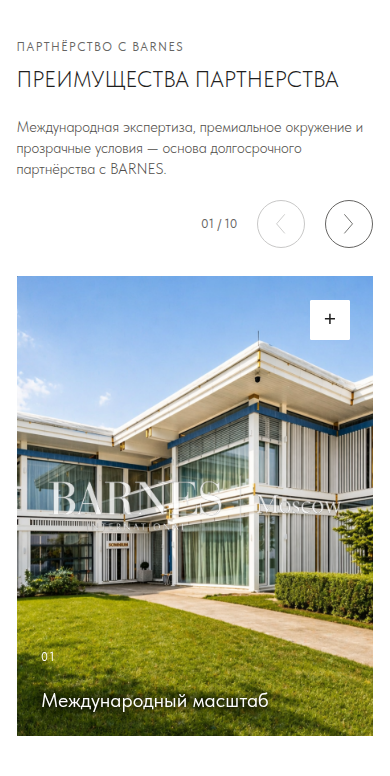
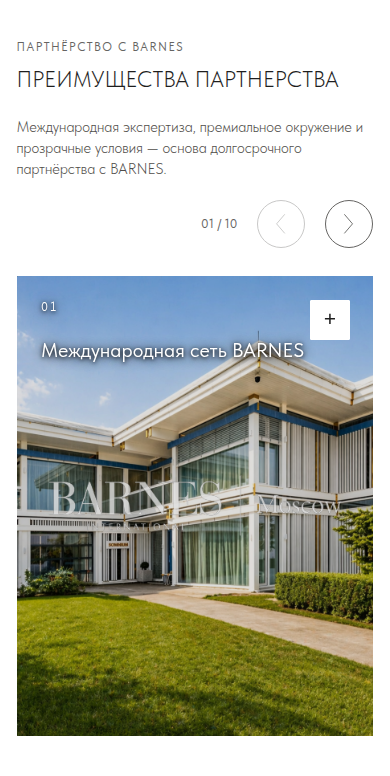
feat: refine partnership advantages titles imagery and alignment

Changed region(s): [[0.0308, 0.3402, 0.9538, 0.866], [0.0923, 0.8969, 0.7077, 0.9278], [0.0923, 0.8351, 0.1231, 0.866]]

diff --git a/for-partners/index.html b/for-partners/index.html
@@ -30,16 +30,16 @@
 </span></button><button type="button" class="ambassadors-advantages__nav-btn" disabled aria-label="Следующее преимущество" data-v-5398f0fc><span class="ui-icon ui-icon-current ambassadors-advantages__nav-icon" data-v-5398f0fc data-v-8bd2f545><svg width="11" height="22" viewBox="0 0 11 22" fill="none" xmlns="http://www.w3.org/2000/svg">
 <path d="M0.379883 21.3262L9.37988 10.8262L0.379884 0.326171" stroke="#656462"/>
 </svg>
-</span></button></div></div><div data-v-5398f0fc class="splide ambassadors-advantages__slider splide--slide splide--ltr splide--draggable is-active is-overflow is-initialized" aria-label="Преимущества партнёрства" id="splide01" role="region" aria-roledescription="carousel"><div data-v-5398f0fc class="splide__track splide__track--slide splide__track--ltr splide__track--draggable" id="splide01-track" tabindex="0" aria-label="Преимущества: используйте стрелки влево и вправо" aria-live="polite" aria-atomic="true"><ul data-v-5398f0fc class="splide__list" id="splide01-list" role="presentation" style="transform: translateX(0px);"><li class="splide__slide" id="splide01-slide01" role="group" aria-roledescription="slide" aria-label="1 из 10"><article class="ambassadors-advantages__card"><div class="ambassadors-advantages__media"><img class="ambassadors-advantages__image" src="assets/media-13.png" alt="" width="800" height="1000" loading="lazy"><div class="ambassadors-advantages__overlay" aria-hidden="true"></div></div><div class="ambassadors-advantages__card-copy"><span class="ambassadors-advantages__number" aria-hidden="true">01</span><h3 class="ambassadors-advantages__card-title">Международный масштаб</h3><p class="ambassadors-advantages__description">BARNES Moscow — часть международного холдинга. Зарубежные запросы сопровождаем через сеть коллег и партнёров BARNES.</p></div></article></li>
-<li class="splide__slide" id="splide01-slide02" role="group" aria-roledescription="slide" aria-label="2 из 10"><article class="ambassadors-advantages__card"><div class="ambassadors-advantages__media"><img class="ambassadors-advantages__image" src="assets/media-01.png" alt="" width="800" height="1000" loading="lazy"><div class="ambassadors-advantages__overlay" aria-hidden="true"></div></div><div class="ambassadors-advantages__card-copy"><span class="ambassadors-advantages__number" aria-hidden="true">02</span><h3 class="ambassadors-advantages__card-title">Опыт в премиальном сегменте</h3><p class="ambassadors-advantages__description">Многолетний международный опыт в элитной недвижимости. Работаем с резиденциями премиум- и делюкс-класса, учитывая цели и образ жизни клиента.</p></div></article></li>
-<li class="splide__slide" id="splide01-slide03" role="group" aria-roledescription="slide" aria-label="3 из 10"><article class="ambassadors-advantages__card"><div class="ambassadors-advantages__media"><img class="ambassadors-advantages__image" src="assets/media-09.png" alt="" width="800" height="1000" loading="lazy"><div class="ambassadors-advantages__overlay" aria-hidden="true"></div></div><div class="ambassadors-advantages__card-copy"><span class="ambassadors-advantages__number" aria-hidden="true">03</span><h3 class="ambassadors-advantages__card-title">Премиальное окружение</h3><p class="ambassadors-advantages__description">Предприниматели, инвесторы, деятели искусства и культуры. BARNES объединяет эту аудиторию на презентациях проектов, деловых встречах и культурных вечерах.</p></div></article></li>
-<li class="splide__slide" id="splide01-slide04" role="group" aria-roledescription="slide" aria-label="4 из 10"><article class="ambassadors-advantages__card"><div class="ambassadors-advantages__media"><img class="ambassadors-advantages__image" src="assets/media-03.png" alt="" width="800" height="1000" loading="lazy"><div class="ambassadors-advantages__overlay" aria-hidden="true"></div></div><div class="ambassadors-advantages__card-copy"><span class="ambassadors-advantages__number" aria-hidden="true">04</span><h3 class="ambassadors-advantages__card-title">Экспертиза, которой доверяют</h3><p class="ambassadors-advantages__description">Комментарии экспертов и аналитика BARNES представлены в деловых СМИ, включая РБК, Forbes, «Коммерсантъ» и «Ведомости».</p></div></article></li>
-<li class="splide__slide" id="splide01-slide05" role="group" aria-roledescription="slide" aria-label="5 из 10"><article class="ambassadors-advantages__card"><div class="ambassadors-advantages__media"><img class="ambassadors-advantages__image" src="assets/media-06.png" alt="" width="800" height="1000" loading="lazy"><div class="ambassadors-advantages__overlay" aria-hidden="true"></div></div><div class="ambassadors-advantages__card-copy"><span class="ambassadors-advantages__number" aria-hidden="true">05</span><h3 class="ambassadors-advantages__card-title">Партнёрская сеть и эксклюзивы</h3><p class="ambassadors-advantages__description">Сотрудничаем с крупными девелоперами и Private-банками. Подбираем предложения открытого рынка и доступные объекты из закрытых продаж.</p></div></article></li>
-<li class="splide__slide" id="splide01-slide06" role="group" aria-roledescription="slide" aria-label="6 из 10"><article class="ambassadors-advantages__card"><div class="ambassadors-advantages__media"><img class="ambassadors-advantages__image" src="assets/media-05.png" alt="" width="800" height="1000" loading="lazy"><div class="ambassadors-advantages__overlay" aria-hidden="true"></div></div><div class="ambassadors-advantages__card-copy"><span class="ambassadors-advantages__number" aria-hidden="true">06</span><h3 class="ambassadors-advantages__card-title">Art de Vivre — больше недвижимости</h3><p class="ambassadors-advantages__description">Французское искусство жить — часть философии BARNES. Международные направления бренда включают искусство, виноградники и яхтинг.</p></div></article></li>
-<li class="splide__slide" id="splide01-slide07" role="group" aria-roledescription="slide" aria-label="7 из 10"><article class="ambassadors-advantages__card"><div class="ambassadors-advantages__media"><img class="ambassadors-advantages__image" src="assets/media-26.png" alt="" width="800" height="1000" loading="lazy"><div class="ambassadors-advantages__overlay" aria-hidden="true"></div></div><div class="ambassadors-advantages__card-copy"><span class="ambassadors-advantages__number" aria-hidden="true">07</span><h3 class="ambassadors-advantages__card-title">Закрепление клиента за вами</h3><p class="ambassadors-advantages__description">После проверки на уникальность закрепляем рекомендованного клиента за вами. Вознаграждение рассчитывается по условиям партнёрской программы.</p></div></article></li>
-<li class="splide__slide" id="splide01-slide08" role="group" aria-roledescription="slide" aria-label="8 из 10"><article class="ambassadors-advantages__card"><div class="ambassadors-advantages__media"><img class="ambassadors-advantages__image" src="assets/media-27.png" alt="" width="800" height="1000" loading="lazy"><div class="ambassadors-advantages__overlay" aria-hidden="true"></div></div><div class="ambassadors-advantages__card-copy"><span class="ambassadors-advantages__number" aria-hidden="true">08</span><h3 class="ambassadors-advantages__card-title">Регулярная обратная связь</h3><p class="ambassadors-advantages__description">Сообщаем о потребностях клиента и предполагаемых сроках выхода на сделку. После её заключения уведомляем вас о результате.</p></div></article></li>
-<li class="splide__slide" id="splide01-slide09" role="group" aria-roledescription="slide" aria-label="9 из 10"><article class="ambassadors-advantages__card"><div class="ambassadors-advantages__media"><img class="ambassadors-advantages__image" src="assets/media-28.png" alt="" width="800" height="1000" loading="lazy"><div class="ambassadors-advantages__overlay" aria-hidden="true"></div></div><div class="ambassadors-advantages__card-copy"><span class="ambassadors-advantages__number" aria-hidden="true">09</span><h3 class="ambassadors-advantages__card-title">Работа с разными запросами</h3><p class="ambassadors-advantages__description">Покупка, продажа и аренда городской, загородной и коммерческой недвижимости. Работаем с запросами в России и за рубежом.</p></div></article></li>
-<li class="splide__slide" id="splide01-slide10" role="group" aria-roledescription="slide" aria-label="10 из 10"><article class="ambassadors-advantages__card"><div class="ambassadors-advantages__media"><img class="ambassadors-advantages__image" src="assets/media-29.png" alt="" width="800" height="1000" loading="lazy"><div class="ambassadors-advantages__overlay" aria-hidden="true"></div></div><div class="ambassadors-advantages__card-copy"><span class="ambassadors-advantages__number" aria-hidden="true">10</span><h3 class="ambassadors-advantages__card-title">Предложения для вашей аудитории</h3><p class="ambassadors-advantages__description">Актуальные объекты и презентации BARNES помогают предметно обсудить запрос клиента. О доступе к партнёрским материалам расскажет менеджер.</p></div></article></li></ul></div></div></div></section>
+</span></button></div></div><div data-v-5398f0fc class="splide ambassadors-advantages__slider splide--slide splide--ltr splide--draggable is-active is-overflow is-initialized" aria-label="Преимущества партнёрства" id="splide01" role="region" aria-roledescription="carousel"><div data-v-5398f0fc class="splide__track splide__track--slide splide__track--ltr splide__track--draggable" id="splide01-track" tabindex="0" aria-label="Преимущества: используйте стрелки влево и вправо" aria-live="polite" aria-atomic="true"><ul data-v-5398f0fc class="splide__list" id="splide01-list" role="presentation" style="transform: translateX(0px);"><li class="splide__slide" id="splide01-slide01" role="group" aria-roledescription="slide" aria-label="1 из 10"><article class="ambassadors-advantages__card"><div class="ambassadors-advantages__media"><img class="ambassadors-advantages__image" src="assets/media-13.png" alt="" width="800" height="1200" loading="lazy"><div class="ambassadors-advantages__overlay" aria-hidden="true"></div></div><div class="ambassadors-advantages__card-copy"><span class="ambassadors-advantages__number" aria-hidden="true">01</span><h3 class="ambassadors-advantages__card-title">Международная сеть BARNES</h3><p class="ambassadors-advantages__description">Запросы за рубежом сопровождаем через коллег и партнёров международного холдинга BARNES. Клиент получает поддержку на выбранном рынке.</p></div></article></li>
+<li class="splide__slide" id="splide01-slide02" role="group" aria-roledescription="slide" aria-label="2 из 10"><article class="ambassadors-advantages__card"><div class="ambassadors-advantages__media"><img class="ambassadors-advantages__image" src="assets/media-01.png" alt="" width="800" height="1200" loading="lazy"><div class="ambassadors-advantages__overlay" aria-hidden="true"></div></div><div class="ambassadors-advantages__card-copy"><span class="ambassadors-advantages__number" aria-hidden="true">02</span><h3 class="ambassadors-advantages__card-title">Премиальная и делюкс-недвижимость</h3><p class="ambassadors-advantages__description">Подбираем квартиры, пентхаусы, особняки и загородные резиденции. Учитываем бюджет, цели покупки и образ жизни клиента.</p></div></article></li>
+<li class="splide__slide" id="splide01-slide03" role="group" aria-roledescription="slide" aria-label="3 из 10"><article class="ambassadors-advantages__card"><div class="ambassadors-advantages__media"><img class="ambassadors-advantages__image" src="assets/media-09.png" alt="" width="800" height="1200" loading="lazy"><div class="ambassadors-advantages__overlay" aria-hidden="true"></div></div><div class="ambassadors-advantages__card-copy"><span class="ambassadors-advantages__number" aria-hidden="true">03</span><h3 class="ambassadors-advantages__card-title">Встречи с предпринимателями и инвесторами</h3><p class="ambassadors-advantages__description">В офисе BARNES на Петровке проходят деловые встречи, лекции об искусстве и гастрономические вечера. Среди гостей — предприниматели, инвесторы и деятели культуры.</p></div></article></li>
+<li class="splide__slide" id="splide01-slide04" role="group" aria-roledescription="slide" aria-label="4 из 10"><article class="ambassadors-advantages__card"><div class="ambassadors-advantages__media"><img class="ambassadors-advantages__image" src="assets/advantages/media-analysis.webp" alt="" width="800" height="1200" loading="lazy"><div class="ambassadors-advantages__overlay" aria-hidden="true"></div></div><div class="ambassadors-advantages__card-copy"><span class="ambassadors-advantages__number" aria-hidden="true">04</span><h3 class="ambassadors-advantages__card-title">Комментарии экспертов в РБК и Forbes</h3><p class="ambassadors-advantages__description">Аналитика и комментарии BARNES представлены в РБК, Forbes, «Коммерсанте» и «Ведомостях»: о городской, курортной и зарубежной недвижимости.</p></div></article></li>
+<li class="splide__slide" id="splide01-slide05" role="group" aria-roledescription="slide" aria-label="5 из 10"><article class="ambassadors-advantages__card"><div class="ambassadors-advantages__media"><img class="ambassadors-advantages__image" src="assets/media-06.png" alt="" width="800" height="1200" loading="lazy"><div class="ambassadors-advantages__overlay" aria-hidden="true"></div></div><div class="ambassadors-advantages__card-copy"><span class="ambassadors-advantages__number" aria-hidden="true">05</span><h3 class="ambassadors-advantages__card-title">Девелоперы и закрытые продажи</h3><p class="ambassadors-advantages__description">Сотрудничаем с крупными девелоперами и Private-банками. Подбираем объекты открытого рынка и доступные предложения из закрытых продаж.</p></div></article></li>
+<li class="splide__slide" id="splide01-slide06" role="group" aria-roledescription="slide" aria-label="6 из 10"><article class="ambassadors-advantages__card"><div class="ambassadors-advantages__media"><img class="ambassadors-advantages__image" src="assets/advantages/client-registration.webp" alt="" width="800" height="1200" loading="lazy"><div class="ambassadors-advantages__overlay" aria-hidden="true"></div></div><div class="ambassadors-advantages__card-copy"><span class="ambassadors-advantages__number" aria-hidden="true">06</span><h3 class="ambassadors-advantages__card-title">Рекомендованный клиент закреплён за вами</h3><p class="ambassadors-advantages__description">Проверяем, обращался ли клиент в BARNES ранее. После проверки уникальности фиксируем вашу рекомендацию и подтверждаем закрепление.</p></div></article></li>
+<li class="splide__slide" id="splide01-slide07" role="group" aria-roledescription="slide" aria-label="7 из 10"><article class="ambassadors-advantages__card"><div class="ambassadors-advantages__media"><img class="ambassadors-advantages__image" src="assets/advantages/client-feedback.webp" alt="" width="800" height="1200" loading="lazy"><div class="ambassadors-advantages__overlay" aria-hidden="true"></div></div><div class="ambassadors-advantages__card-copy"><span class="ambassadors-advantages__number" aria-hidden="true">07</span><h3 class="ambassadors-advantages__card-title">Статус работы с клиентом и результат сделки</h3><p class="ambassadors-advantages__description">Держим вас в курсе потребностей клиента и предполагаемых сроков сделки. После её заключения сообщаем результат.</p></div></article></li>
+<li class="splide__slide" id="splide01-slide08" role="group" aria-roledescription="slide" aria-label="8 из 10"><article class="ambassadors-advantages__card"><div class="ambassadors-advantages__media"><img class="ambassadors-advantages__image" src="assets/advantages/property-requests.webp" alt="" width="800" height="1200" loading="lazy"><div class="ambassadors-advantages__overlay" aria-hidden="true"></div></div><div class="ambassadors-advantages__card-copy"><span class="ambassadors-advantages__number" aria-hidden="true">08</span><h3 class="ambassadors-advantages__card-title">Покупка, продажа и аренда в России и за рубежом</h3><p class="ambassadors-advantages__description">Принимаем запросы на городскую, загородную и коммерческую недвижимость. Одному клиенту можно помочь с несколькими задачами.</p></div></article></li>
+<li class="splide__slide" id="splide01-slide09" role="group" aria-roledescription="slide" aria-label="9 из 10"><article class="ambassadors-advantages__card"><div class="ambassadors-advantages__media"><img class="ambassadors-advantages__image" src="assets/advantages/partner-materials.webp" alt="" width="800" height="1200" loading="lazy"><div class="ambassadors-advantages__overlay" aria-hidden="true"></div></div><div class="ambassadors-advantages__card-copy"><span class="ambassadors-advantages__number" aria-hidden="true">09</span><h3 class="ambassadors-advantages__card-title">Презентации объектов для ваших клиентов</h3><p class="ambassadors-advantages__description">Актуальные предложения и презентации помогают обсудить с клиентом конкретные объекты. Доступ к партнёрским материалам уточните у менеджера.</p></div></article></li>
+<li class="splide__slide" id="splide01-slide10" role="group" aria-roledescription="slide" aria-label="10 из 10"><article class="ambassadors-advantages__card"><div class="ambassadors-advantages__media"><img class="ambassadors-advantages__image" src="assets/advantages/barnes-polo.webp" alt="" width="800" height="1200" loading="lazy"><div class="ambassadors-advantages__overlay" aria-hidden="true"></div></div><div class="ambassadors-advantages__card-copy"><span class="ambassadors-advantages__number" aria-hidden="true">10</span><h3 class="ambassadors-advantages__card-title">Art de Vivre: искусство, вино и яхтинг</h3><p class="ambassadors-advantages__description">Помимо недвижимости, международные направления BARNES включают искусство, виноградники и яхтинг. Бренд также поддерживает турниры по поло.</p></div></article></li></ul></div></div></div></section>
 <section class="catalog-contact" data-v-a6e73492 data-v-47feb1bb><div class="catalog-contact__media" data-v-47feb1bb><img src="assets/media-07.png" alt="" class="catalog-contact__image" width="1920" height="800" loading="lazy" data-v-47feb1bb><div class="catalog-contact__overlay" aria-hidden="true" data-v-47feb1bb></div></div><div class="catalog-contact__inner base-container" data-v-47feb1bb><div class="catalog-contact__grid" data-v-47feb1bb><div class="catalog-contact__content" data-v-47feb1bb><div class="catalog-contact__mobile-expert" data-v-47feb1bb><div class="catalog-contact__mobile-photo" data-v-47feb1bb><img src="assets/media-08.png" alt="Александра" width="68" height="68" data-v-47feb1bb></div><div data-v-47feb1bb><p class="catalog-contact__mobile-role" data-v-47feb1bb>Эксперт проекта</p><p class="catalog-contact__mobile-name" data-v-47feb1bb>Александра</p></div></div><div class="catalog-contact__header" data-v-47feb1bb><h2 class="catalog-contact__title" data-v-47feb1bb>У Вас есть вопросы?</h2><p class="catalog-contact__subtitle" data-v-47feb1bb>Эксперты BARNES подскажут</p></div><div class="catalog-contact__methods" role="tablist" aria-label="Способ связи" data-v-47feb1bb><!--[--><button type="button" role="tab" class="catalog-contact__method" aria-selected="false" data-v-47feb1bb><span class="catalog-contact__method-icon" aria-hidden="true" data-v-47feb1bb><svg viewBox="0 0 24 24" fill="none" xmlns="http://www.w3.org/2000/svg"><path d="M5 4h3l2 5-2 1.4a12.5 12.5 0 0 0 5.6 5.6L15 14l5 2v3c0 1.1-.9 2-2 2C10.3 21 3 13.7 3 5c0-1.1.9-2 2-2Z" fill="none" stroke="currentColor" stroke-linecap="round" stroke-linejoin="round" stroke-width="1.5"/></svg></span><span data-v-47feb1bb>Звонок</span></button><button type="button" role="tab" class="catalog-contact__method" aria-selected="false" data-v-47feb1bb><span class="catalog-contact__method-icon--max catalog-contact__method-icon" aria-hidden="true" data-v-47feb1bb><svg viewBox="0 0 42 42" xmlns="http://www.w3.org/2000/svg"><path d="M21.47 41.88c-4.11 0-6.02-.6-9.34-3-2.1 2.7-8.75 4.81-9.04 1.2 0-2.71-.6-5-1.28-7.5C1 29.5.08 26.07.08 21.1.08 9.23 9.82.3 21.36.3c11.55 0 20.6 9.37 20.6 20.91a20.6 20.6 0 0 1-20.49 20.67m.17-31.32c-5.62-.29-10 3.6-10.97 9.7-.8 5.05.62 11.2 1.83 11.52.58.14 2.04-1.04 2.95-1.95a10.4 10.4 0 0 0 5.08 1.81 10.7 10.7 0 0 0 11.19-9.97 10.7 10.7 0 0 0-10.08-11.1Z" fill="currentColor"/></svg></span><span data-v-47feb1bb>MAX</span></button><button type="button" role="tab" class="catalog-contact__method--active catalog-contact__method" aria-selected="true" data-v-47feb1bb><span class="catalog-contact__method-icon" aria-hidden="true" data-v-47feb1bb><svg viewBox="0 0 24 24" xmlns="http://www.w3.org/2000/svg"><path d="M17.472 14.382c-.297-.149-1.758-.867-2.03-.967-.273-.099-.471-.148-.67.15-.197.297-.767.966-.94 1.164-.173.199-.347.223-.644.075-.297-.15-1.255-.463-2.39-1.475-.883-.788-1.48-1.761-1.653-2.059-.173-.297-.018-.458.13-.606.134-.133.298-.347.446-.52.149-.174.198-.298.298-.497.099-.198.05-.371-.025-.52-.075-.149-.669-1.612-.916-2.207-.242-.579-.487-.5-.669-.51-.173-.008-.371-.01-.57-.01-.198 0-.52.074-.792.372-.272.297-1.04 1.016-1.04 2.479 0 1.462 1.065 2.875 1.213 3.074.149.198 2.096 3.2 5.077 4.487.709.306 1.262.489 1.694.625.712.227 1.36.195 1.871.118.571-.085 1.758-.719 2.006-1.413.248-.694.248-1.289.173-1.413-.074-.124-.272-.198-.57-.347m-5.421 7.403h-.004a9.87 9.87 0 0 1-5.031-1.378l-.361-.214-3.741.982.998-3.648-.235-.374a9.86 9.86 0 0 1-1.51-5.26C2.158 6.443 6.593 2.009 12.045 2.009c2.64 0 5.122 1.03 6.988 2.898a9.825 9.825 0 0 1 2.893 6.994c-.003 5.45-4.437 9.884-9.885 9.884Z" fill="currentColor"/></svg></span><span data-v-47feb1bb>Whatsapp</span></button><button type="button" role="tab" class="catalog-contact__method" aria-selected="false" data-v-47feb1bb><span class="catalog-contact__method-icon" aria-hidden="true" data-v-47feb1bb><svg viewBox="0 0 24 24" xmlns="http://www.w3.org/2000/svg"><path d="M11.944 0A12 12 0 0 0 0 12a12 12 0 0 0 12 12 12 12 0 0 0 12-12A12 12 0 0 0 12 0a12 12 0 0 0-.056 0zm4.962 7.224c.1-.002.321.023.465.14a.506.506 0 0 1 .171.325c.016.093.036.306.02.472-.18 1.898-.962 6.502-1.36 8.627-.168.9-.499 1.201-.82 1.23-.696.065-1.225-.46-1.9-.902-1.056-.693-1.653-1.124-2.678-1.8-1.185-.78-.417-1.21.258-1.91.177-.184 3.247-2.977 3.307-3.23.007-.032.014-.15-.056-.212s-.174-.041-.249-.024c-.106.024-1.793 1.14-5.061 3.345-.48.33-.913.49-1.302.48-.428-.008-1.252-.241-1.865-.44-.752-.245-1.349-.374-1.297-.789.027-.216.325-.437.893-.663 3.498-1.524 5.83-2.529 6.998-3.014 3.332-1.386 4.025-1.627 4.476-1.635Z" fill="currentColor"/></svg></span><span data-v-47feb1bb>Telegram</span></button><!--]--></div><form class="catalog-contact__form" novalidate data-v-47feb1bb><div class="catalog-contact__honeypot" aria-hidden="true" data-v-47feb1bb><input value="" type="text" tabindex="-1" autocomplete="off" data-v-47feb1bb></div><label class="catalog-contact__field" data-v-47feb1bb><input value="" type="text" class="catalog-contact__input" autocomplete="name" placeholder="Введите Ваше имя" data-v-47feb1bb><!----></label><label class="catalog-contact__field" data-v-47feb1bb><input value type="tel" inputmode="tel" class="catalog-contact__input" autocomplete="tel" placeholder="Ваш номер телефона" data-v-47feb1bb><!----></label><label class="catalog-contact__field catalog-contact__field--textarea" data-v-47feb1bb><textarea class="catalog-contact__textarea" rows="3" placeholder="Оставьте свой комментарий" data-v-47feb1bb></textarea><!----></label><button formnovalidate type="submit" class="ui-button ui-button--primary ui-button--large ui-button--full catalog-contact__submit" data-v-47feb1bb data-v-0abc262e><!--[-->Отправить заявку<!--]--></button><div class="catalog-contact__consent-wrap" data-v-47feb1bb><label class="catalog-contact__consent" data-v-47feb1bb><input type="checkbox" class="catalog-contact__consent-input" data-v-47feb1bb><span class="catalog-contact__consent-box" aria-hidden="true" data-v-47feb1bb></span><span class="catalog-contact__consent-text" data-v-47feb1bb> Я даю согласие на <a class="catalog-contact__consent-link" target="_blank" href="/legal_notices/yuridicheskie-uvedomleniya/" data-v-47feb1bb><!--[--> обработку персональных данных <!--]--></a></span></label><!----></div></form></div><aside class="catalog-contact__card" data-v-47feb1bb><div class="catalog-contact__expert" data-v-47feb1bb><div class="catalog-contact__expert-photo" data-v-47feb1bb><img src="assets/media-08.png" alt="Александра" width="96" height="96" loading="lazy" data-v-47feb1bb></div><div class="catalog-contact__expert-info" data-v-47feb1bb><p class="catalog-contact__expert-role" data-v-47feb1bb>Эксперт проекта</p><p class="catalog-contact__expert-name" data-v-47feb1bb>Александра</p></div></div><h3 class="catalog-contact__card-title" data-v-47feb1bb>Получить подборку под ваш сценарий</h3><p class="catalog-contact__card-text" data-v-47feb1bb>Сравним корпус, вид, планировку, условия покупки и сценарий владения. В ответе только те резиденции, которые действительно стоит смотреть.</p><button type="button" class="ui-button ui-button--secondary ui-button--large ui-button--full catalog-contact__card-submit" data-v-47feb1bb data-v-0abc262e><!--[-->Отправить заявку<!--]--></button></aside></div></div><!--teleport start--><!--teleport end--></section><section class="catalog-faq" aria-labelledby="catalog-faq-title" data-v-a6e73492 data-v-d09db9d2><div class="catalog-faq__inner base-container" data-v-d09db9d2><h2 id="catalog-faq-title" class="catalog-faq__title" data-v-d09db9d2>Актуальные вопросы и ответы</h2><div class="catalog-faq__grid" data-v-d09db9d2><!--[--><div class="catalog-faq__column" data-v-d09db9d2><!--[--><div class="catalog-faq__item--open catalog-faq__item" data-v-d09db9d2><button type="button" class="catalog-faq__question" aria-expanded="true" data-v-d09db9d2><span class="catalog-faq__question-text" data-v-d09db9d2>Как стать амбассадором BARNES?</span><span class="catalog-faq__icon" aria-hidden="true" data-v-d09db9d2><span class="ui-icon ui-icon-current" data-v-d09db9d2 data-v-8bd2f545><svg xmlns="http://www.w3.org/2000/svg" width="20" height="20" viewBox="0 0 24 24" fill="none" stroke="currentColor" stroke-width="1.5" stroke-linecap="round" stroke-linejoin="round">
   <path d="M12 5v14"/>
   <path d="M5 12h14"/>
@@ -72,6 +72,6 @@
   <link rel="stylesheet" href="assets/directions/directions.css?v=9">
   <script defer src="assets/directions/directions-data.js?v=4"></script>
   <script defer src="assets/directions/directions.js?v=4"></script>
-  <link rel="stylesheet" href="assets/advantages-enhanced.css?v=20261008-3">
+  <link rel="stylesheet" href="assets/advantages-enhanced.css?v=20261008-4">
   <script defer src="for-partners.js?v=20261008-22"></script>
 </body></html>

diff --git a/for-partners/assets/advantages-enhanced.css b/for-partners/assets/advantages-enhanced.css
@@ -19,7 +19,7 @@
   aspect-ratio: auto;
   border-radius: 1px;
   display: flex;
-  align-items: flex-end;
+  align-items: flex-start;
   background: #1e1e1e;
 }
 #advantages .ambassadors-advantages__media { position:absolute; inset:0; }
@@ -28,18 +28,18 @@
 }
 #advantages .ambassadors-advantages__overlay {
   position:absolute; inset:0;
-  background: rgba(0,0,0,.68);
-  opacity:0; transition:opacity 240ms ease;
+  background: rgba(0,0,0,.12);
+  opacity:1; transition:background-color 240ms ease;
 }
 #advantages .ambassadors-advantages__media::after {
   content:none;
 }
 @media(hover:hover) and (pointer:fine) {
-  #advantages .ambassadors-advantages__card:hover .ambassadors-advantages__overlay { opacity:1; }
+  #advantages .ambassadors-advantages__card:hover .ambassadors-advantages__overlay { background:rgba(0,0,0,.68); }
   #advantages .ambassadors-advantages__card:hover .ambassadors-advantages__description { max-height:240px; opacity:1; visibility:visible; margin-top:16px; }
 }
 #advantages .splide__track:focus-visible .is-active .ambassadors-advantages__overlay,
-#advantages .ambassadors-advantages__card.is-revealed .ambassadors-advantages__overlay { opacity:1; }
+#advantages .ambassadors-advantages__card.is-revealed .ambassadors-advantages__overlay { background:rgba(0,0,0,.68); }
 #advantages .splide__track:focus-visible .is-active .ambassadors-advantages__description,
 #advantages .ambassadors-advantages__card.is-revealed .ambassadors-advantages__description { max-height:240px; opacity:1; visibility:visible; margin-top:16px; }
 #advantages .ambassadors-advantages__reveal { display:none; }
@@ -60,6 +60,7 @@
   line-height: 16.1px;
   font-weight: 400;
   letter-spacing: .12em;
+  font-variant-numeric:tabular-nums;
   margin-bottom: 24px;
   text-shadow:0 1px 4px #000,0 1px 12px #000;
 }
@@ -78,6 +79,7 @@
   line-height: 28.8px;
   font-weight: 400;
   text-shadow:0 1px 4px #000,0 1px 12px #000;
+  min-height:86.4px;
 }
 #advantages .ambassadors-advantages__description {
   max-height:0; opacity:0; visibility:hidden; overflow:hidden;
@@ -108,7 +110,7 @@
   #advantages .ambassadors-advantages__text { font-size:15px; line-height:21px; }
   #advantages .ambassadors-advantages__card { min-height: 460px; }
   #advantages .ambassadors-advantages__card-copy { padding: 24px; }
-  #advantages .ambassadors-advantages__card-title { font-size:20px; line-height:24px; }
+  #advantages .ambassadors-advantages__card-title { font-size:20px; line-height:24px; min-height:72px; }
   #advantages .ambassadors-advantages__number { font-size:12px; line-height:14.4px; }
 }
 @media(min-width:1441px) {

diff --git a/for-partners/audit/advantages-refresh.md b/for-partners/audit/advantages-refresh.md
@@ -1,0 +1,39 @@
+# Обновление карточек преимуществ — 2026-10-08
+
+Эта редакция заменяет прежний визуальный контракт advantages-content.md и advantages-reveal.md: в покое все изображения затемнены на 12%, описание скрыто. Дополнительное затемнение до 68% и описание появляются при hover, клавиатурном фокусе активного слайда либо touch-переключателе. Номера и начало заголовков имеют одинаковые вертикальные координаты; карточки не меняют высоту.
+
+## Порядок и фактическая основа
+
+1. Международная сеть BARNES — презентация, слайды 2, 3, 5, 11; без спорных чисел офисов/стран.
+2. Премиальная и делюкс-недвижимость — слайды 2, 4, 5, 11; типы объектов вместо неподтверждённого стажа.
+3. Встречи с предпринимателями и инвесторами — слайды 4, 5, 20; мероприятия на Петровке, не обещание передачи VIP-базы.
+4. Комментарии экспертов в РБК и Forbes — слайд 11. Публичный раздел https://barn-estate.ru/media/ подтверждает присутствие аналитики бренда в СМИ.
+5. Девелоперы и закрытые продажи — слайд 11; только доступные предложения, без гарантии эксклюзивного доступа.
+6. Рекомендованный клиент закреплён за вами — слайды 12–13; после проверки уникальности.
+7. Статус работы с клиентом и результат сделки — слайд 12.
+8. Покупка, продажа и аренда в России и за рубежом — слайды 6–9, 11.
+9. Презентации объектов для ваших клиентов — слайды 18–19; доступ уточняется у менеджера.
+10. Art de Vivre: искусство, вино и яхтинг — слайды 2, 10; поло подтверждено официальной публикацией BARNES о поддержке Open de France 2025: https://www.barnes-international.com/es/acerca-de-barnes/actualidad/2025/la-25a-edicion-del-open-polo-de-francia-barnes-en-chantilly-3084.html . Фото этой публикации недоступно для загрузки (403), использована иллюстрация, а не снимок турнира.
+
+## Изображения и промпты
+
+Каноническая библиотека daniilterekh-prog/barnes-assets проверена. Шесть новых изображений созданы imagegen, затем только уменьшены и перекодированы в WebP 800×1200, quality 88. Это иллюстрации: люди и события не выдаются за реальных сотрудников, клиентов или мероприятия BARNES. Логотипоподобная надпись BARNES присутствует только на игровой рубашке всадника, по запросу пользователя.
+
+Общий промпт: `Use case: photorealistic-natural. Asset type: vertical BARNES partnership website photo card. [scene] Single portrait 2:3 image, sophisticated natural editorial realism, warm neutral palette, real material texture, no collage, no overlay, no baked-in darkening, no decorative text or watermark. Upper quarter kept visually calm and slightly dark in natural scene lighting for white HTML number/title. Subject in middle/lower area, crop-safe center. No logos and no readable text.` Для поло последнее предложение: `Only text allowed is the BARNES sponsor on the jersey.`
+
+| Файл в assets/advantages | Scene |
+| --- | --- |
+| media-analysis.webp | A refined real estate market analyst's desk: open architecture journal, printed market charts without readable numbers, fountain pen, warm stone desk and softly blurred Moscow skyline through tall windows. No miniature buildings. No people. |
+| client-registration.webp | Close-up of a refined advisor's hands placing a single cream client referral folder into an organized portfolio at a walnut desk, subtle brass details, warm daylight. Folder plain and confidential, no names or readable document text, no handshake. |
+| client-feedback.webp | A real estate advisor in elegant neutral suit, three-quarter rear view, making a phone call beside a tall office window with softly blurred city beyond, holding an understated notebook, natural human anatomy. No visible face in close-up, no miniature buildings. |
+| property-requests.webp | A beautiful premium Moscow apartment with an open terrace overlooking a green residential district, architectural photography, warm pale stone and oak, large glazed doors, no people, avoid skyscraper-only composition. |
+| partner-materials.webp | Carefully arranged premium property presentation portfolio on a large oak table: two open editorial brochures with clear large architectural photos, one tablet showing a property photograph without text, elegant natural linen and paper textures, no people. |
+| barnes-polo.webp | A photorealistic editorial photograph of a single polo rider on a beautiful chestnut horse on a manicured grass field in France, rider wearing a navy polo jersey with a legible white chest sponsor word exactly 'BARNES', holding a polo mallet naturally. Horse and rider full body visible, correct anatomy, elegant restrained sport photography, tasteful distant trees. This is an illustrative scene, not a documentary of a specific event. |
+
+## Проверка
+
+check-advantages-reveal.cjs: десять карточек, совпадение координат номеров/заголовков, Art de Vivre последним, базовое и активное затемнение, скрытие/раскрытие описания, постоянная высота, клавиатура Home/End, вместимость текста и загрузка фото при включённых изображениях. Итоги: advantages-reveal-checks.json. Проверяется изолированная секция, не вся страница. При падении Chromium запуск NO_IMAGES=1 проверяет только геометрию и поведение и явно помечается photosEnabled=false.
+
+SEO: h2, десять h3, HTML-описания и метаданные сохранены; новые смысловые заголовки не внедряют неподтверждённых числовых обещаний. Декоративные фотографии с пустым alt не дублируют текст карточек. Формы, URL и навигация не изменены.
+
+Фактические прогоны: 390 px с изображениями — PASS, все десять фото загружены, сделаны closed/open/last скриншоты; 320 px без изображений — PASS. 1440 px без изображений — PASS для геометрии и поведения. Попытки 1440 px с фото и 768 px завершились падением процесса Chromium; полноценная визуальная desktop/tablet-проверка не подтверждена. Старые advantages-reveal-1440-*.png относятся к предыдущей редакции, не использовать как актуальный эталон.

diff --git a/for-partners/CHANGELOG.md b/for-partners/CHANGELOG.md
@@ -1,5 +1,12 @@
 # Изменения страницы партнёров
 
+## 2026-10-08 — конкретные преимущества, выравнивание и новые фото
+
+- Все десять номеров и заголовков выровнены по верхнему краю, цифровые глифы tabular-nums. Заголовки конкретизируют услугу или подтверждённый факт вместо абстрактных обещаний.
+- Art de Vivre перенесён в конец. Заменены фото СМИ, закрепления клиента, обратной связи, запросов, материалов и Art de Vivre; шесть локальных WebP 800×1200 — сгенерированные иллюстрации, не документальные снимки.
+- На всех фото базовое затемнение 12%; при раскрытии 68%. Описания по-прежнему скрыты в покое, раскрываются hover/focus или кнопкой на touch. Типографика UI-кита сохранена.
+- Источники, ограничения и промпты: audit/advantages-refresh.md. Изменения только существующего блока преимуществ; форма и другие секции не изменены.
+
 ## 2026-10-08 — описание преимуществ только при раскрытии
 
 - В обычном состоянии фотографии без затемняющего слоя, описания скрыты. При hover описание и затемнение появляются одновременно, при уходе курсора исчезают.
